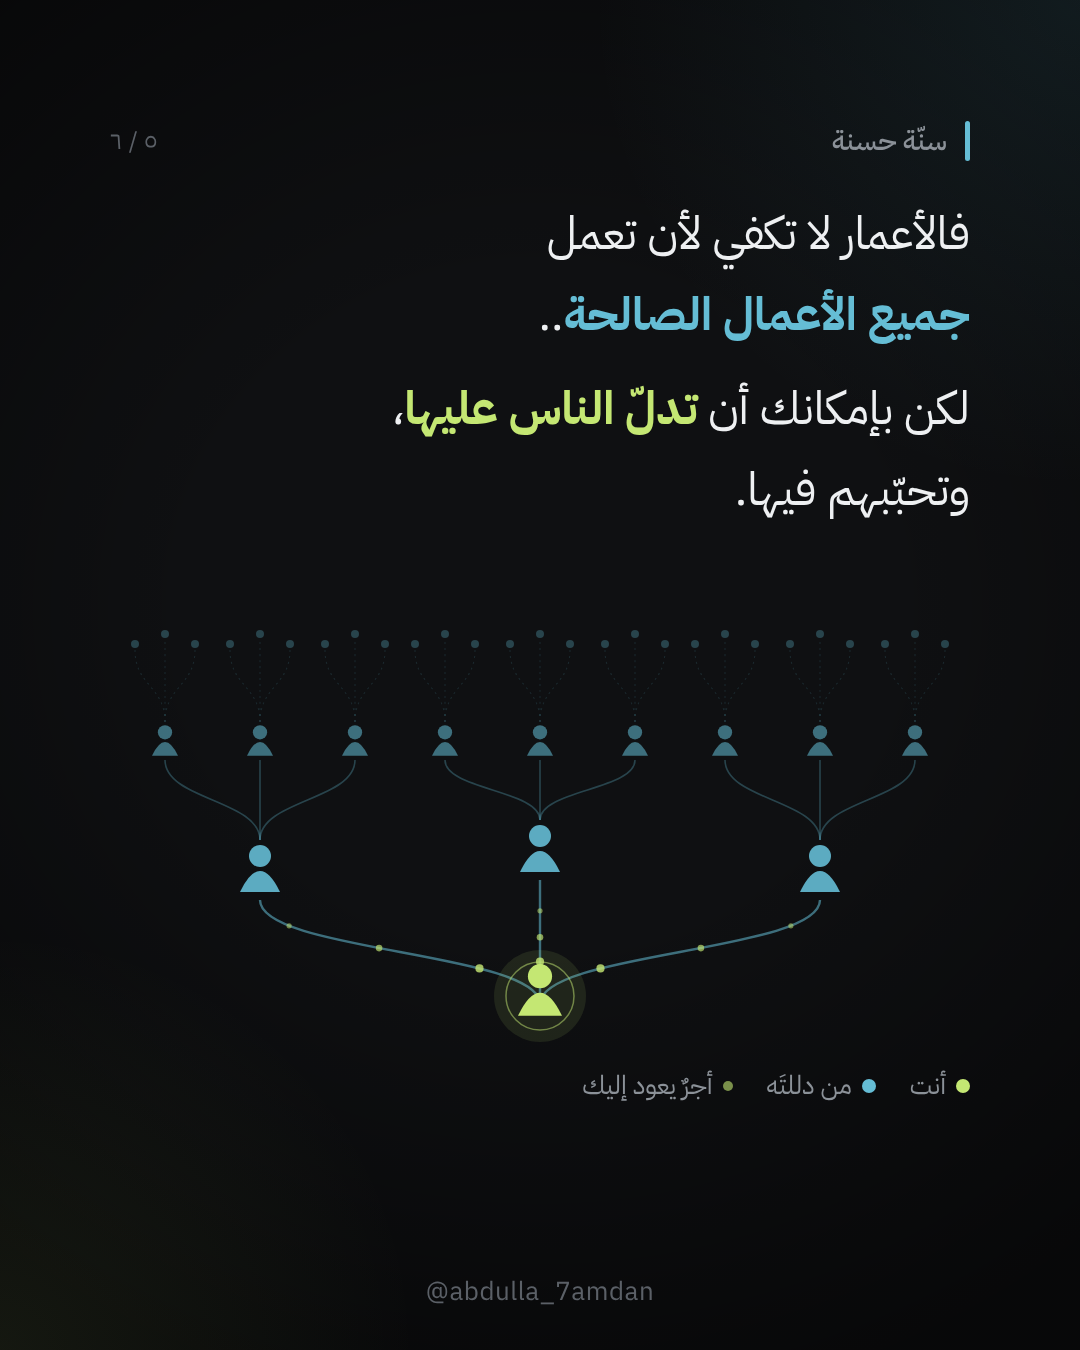
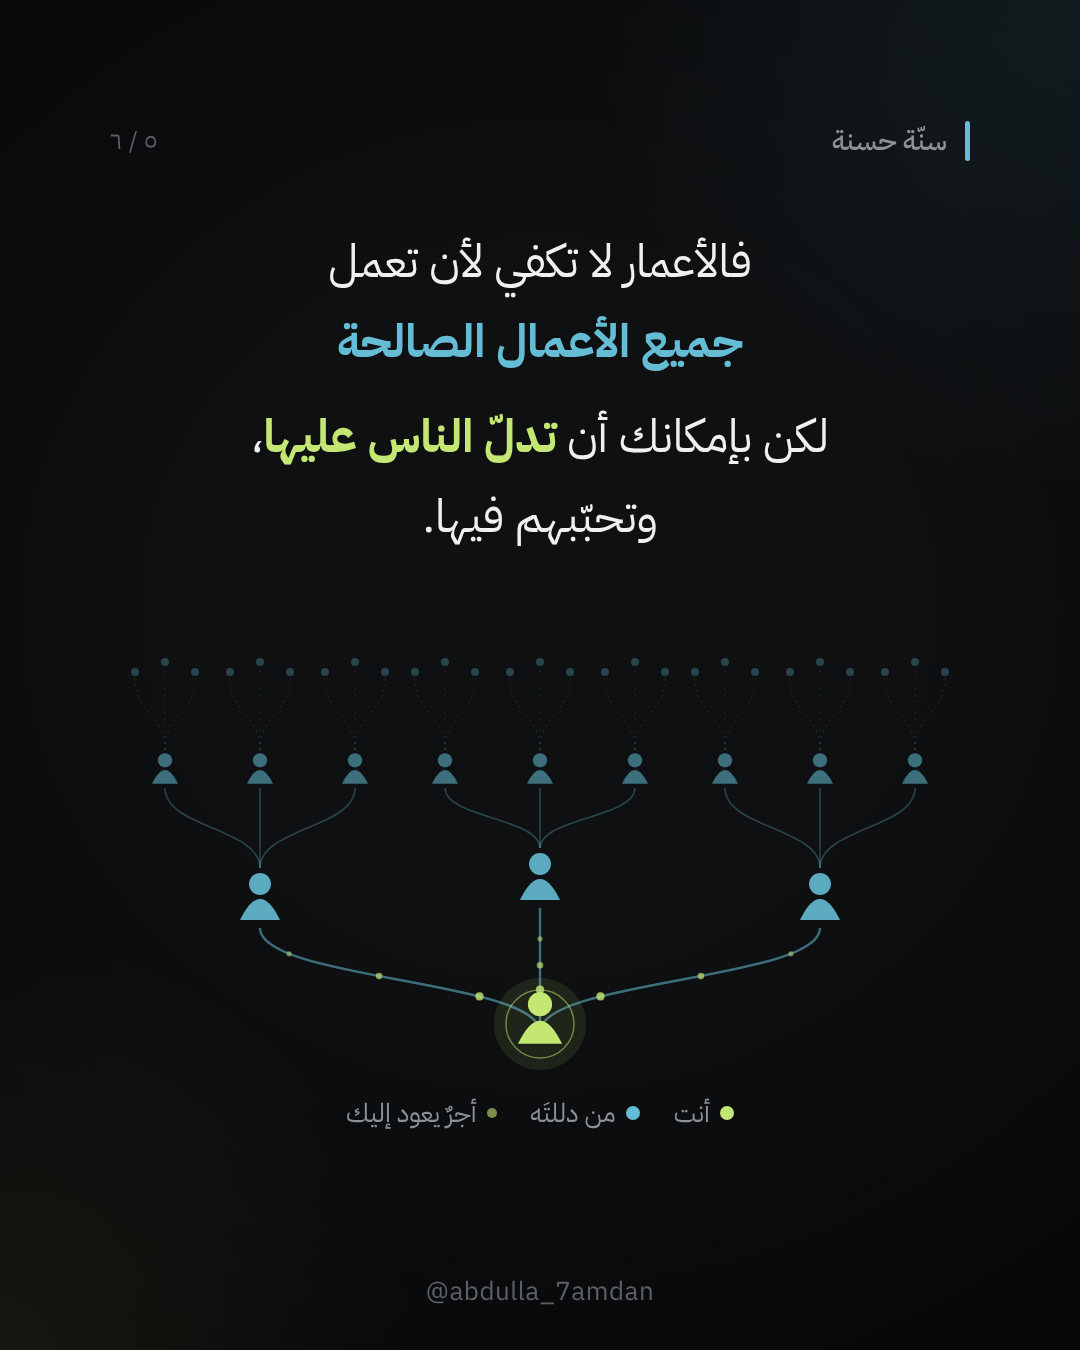
سنّة حسنة: center slide 5 text, drop trailing dots
Claude-Session: https://claude.ai/code/session_01BaYRa7bC6zxZgA65wvC7DU

diff --git a/carousels/sunna-hasana/carousel-dark.html b/carousels/sunna-hasana/carousel-dark.html
@@ -214,11 +214,11 @@ b{font-weight:700;color:var(--blue)}
 <!-- 5 Guide others -->
 <section class="slide">
   <div class="head">سنّة حسنة<span class="count">٥ / ٦</span></div>
-  <div class="body" style="justify-content:flex-start;padding-top:30px">
-    <p class="mid" style="font-size:46px">فالأعمار لا تكفي لأن تعمل<br><b>جميع الأعمال الصالحة</b>..</p>
-    <p class="mid" style="font-size:46px;margin-top:14px">لكن بإمكانك أن <span class="lime">تدلّ الناس عليها</span>،<br>وتحبّبهم فيها.</p>
+  <div class="body" style="justify-content:center;padding-bottom:40px">
+    <p class="mid" style="font-size:46px;text-align:center">فالأعمار لا تكفي لأن تعمل<br><b>جميع الأعمال الصالحة</b></p>
+    <p class="mid" style="font-size:46px;margin-top:14px;text-align:center">لكن بإمكانك أن <span class="lime">تدلّ الناس عليها</span>،<br>وتحبّبهم فيها.</p>
     <svg class="net" viewBox="0 0 860 470" fill="none"><path d="M430 430 C430 378.0 150 378.0 150 326" stroke="#65bdd5" stroke-opacity="0.55" stroke-width="2.4" /><path d="M150 266 C150 226.0 55.0 226.0 55.0 186" stroke="#65bdd5" stroke-opacity="0.3" stroke-width="1.6" /><path d="M55.0 148 C55.0 112.0 25.0 112.0 25.0 76" stroke="#65bdd5" stroke-opacity="0.14" stroke-width="1.1" stroke-dasharray="2 4"/><path d="M55.0 148 C55.0 107.0 55.0 107.0 55.0 66" stroke="#65bdd5" stroke-opacity="0.14" stroke-width="1.1" stroke-dasharray="2 4"/><path d="M55.0 148 C55.0 112.0 85.0 112.0 85.0 76" stroke="#65bdd5" stroke-opacity="0.14" stroke-width="1.1" stroke-dasharray="2 4"/><path d="M150 266 C150 226.0 150.0 226.0 150.0 186" stroke="#65bdd5" stroke-opacity="0.3" stroke-width="1.6" /><path d="M150.0 148 C150.0 112.0 120.0 112.0 120.0 76" stroke="#65bdd5" stroke-opacity="0.14" stroke-width="1.1" stroke-dasharray="2 4"/><path d="M150.0 148 C150.0 107.0 150.0 107.0 150.0 66" stroke="#65bdd5" stroke-opacity="0.14" stroke-width="1.1" stroke-dasharray="2 4"/><path d="M150.0 148 C150.0 112.0 180.0 112.0 180.0 76" stroke="#65bdd5" stroke-opacity="0.14" stroke-width="1.1" stroke-dasharray="2 4"/><path d="M150 266 C150 226.0 245.0 226.0 245.0 186" stroke="#65bdd5" stroke-opacity="0.3" stroke-width="1.6" /><path d="M245.0 148 C245.0 112.0 215.0 112.0 215.0 76" stroke="#65bdd5" stroke-opacity="0.14" stroke-width="1.1" stroke-dasharray="2 4"/><path d="M245.0 148 C245.0 107.0 245.0 107.0 245.0 66" stroke="#65bdd5" stroke-opacity="0.14" stroke-width="1.1" stroke-dasharray="2 4"/><path d="M245.0 148 C245.0 112.0 275.0 112.0 275.0 76" stroke="#65bdd5" stroke-opacity="0.14" stroke-width="1.1" stroke-dasharray="2 4"/><path d="M430 430 C430 368.0 430 368.0 430 306" stroke="#65bdd5" stroke-opacity="0.55" stroke-width="2.4" /><path d="M430 246 C430 216.0 335.0 216.0 335.0 186" stroke="#65bdd5" stroke-opacity="0.3" stroke-width="1.6" /><path d="M335.0 148 C335.0 112.0 305.0 112.0 305.0 76" stroke="#65bdd5" stroke-opacity="0.14" stroke-width="1.1" stroke-dasharray="2 4"/><path d="M335.0 148 C335.0 107.0 335.0 107.0 335.0 66" stroke="#65bdd5" stroke-opacity="0.14" stroke-width="1.1" stroke-dasharray="2 4"/><path d="M335.0 148 C335.0 112.0 365.0 112.0 365.0 76" stroke="#65bdd5" stroke-opacity="0.14" stroke-width="1.1" stroke-dasharray="2 4"/><path d="M430 246 C430 216.0 430.0 216.0 430.0 186" stroke="#65bdd5" stroke-opacity="0.3" stroke-width="1.6" /><path d="M430.0 148 C430.0 112.0 400.0 112.0 400.0 76" stroke="#65bdd5" stroke-opacity="0.14" stroke-width="1.1" stroke-dasharray="2 4"/><path d="M430.0 148 C430.0 107.0 430.0 107.0 430.0 66" stroke="#65bdd5" stroke-opacity="0.14" stroke-width="1.1" stroke-dasharray="2 4"/><path d="M430.0 148 C430.0 112.0 460.0 112.0 460.0 76" stroke="#65bdd5" stroke-opacity="0.14" stroke-width="1.1" stroke-dasharray="2 4"/><path d="M430 246 C430 216.0 525.0 216.0 525.0 186" stroke="#65bdd5" stroke-opacity="0.3" stroke-width="1.6" /><path d="M525.0 148 C525.0 112.0 495.0 112.0 495.0 76" stroke="#65bdd5" stroke-opacity="0.14" stroke-width="1.1" stroke-dasharray="2 4"/><path d="M525.0 148 C525.0 107.0 525.0 107.0 525.0 66" stroke="#65bdd5" stroke-opacity="0.14" stroke-width="1.1" stroke-dasharray="2 4"/><path d="M525.0 148 C525.0 112.0 555.0 112.0 555.0 76" stroke="#65bdd5" stroke-opacity="0.14" stroke-width="1.1" stroke-dasharray="2 4"/><path d="M430 430 C430 378.0 710 378.0 710 326" stroke="#65bdd5" stroke-opacity="0.55" stroke-width="2.4" /><path d="M710 266 C710 226.0 615.0 226.0 615.0 186" stroke="#65bdd5" stroke-opacity="0.3" stroke-width="1.6" /><path d="M615.0 148 C615.0 112.0 585.0 112.0 585.0 76" stroke="#65bdd5" stroke-opacity="0.14" stroke-width="1.1" stroke-dasharray="2 4"/><path d="M615.0 148 C615.0 107.0 615.0 107.0 615.0 66" stroke="#65bdd5" stroke-opacity="0.14" stroke-width="1.1" stroke-dasharray="2 4"/><path d="M615.0 148 C615.0 112.0 645.0 112.0 645.0 76" stroke="#65bdd5" stroke-opacity="0.14" stroke-width="1.1" stroke-dasharray="2 4"/><path d="M710 266 C710 226.0 710.0 226.0 710.0 186" stroke="#65bdd5" stroke-opacity="0.3" stroke-width="1.6" /><path d="M710.0 148 C710.0 112.0 680.0 112.0 680.0 76" stroke="#65bdd5" stroke-opacity="0.14" stroke-width="1.1" stroke-dasharray="2 4"/><path d="M710.0 148 C710.0 107.0 710.0 107.0 710.0 66" stroke="#65bdd5" stroke-opacity="0.14" stroke-width="1.1" stroke-dasharray="2 4"/><path d="M710.0 148 C710.0 112.0 740.0 112.0 740.0 76" stroke="#65bdd5" stroke-opacity="0.14" stroke-width="1.1" stroke-dasharray="2 4"/><path d="M710 266 C710 226.0 805.0 226.0 805.0 186" stroke="#65bdd5" stroke-opacity="0.3" stroke-width="1.6" /><path d="M805.0 148 C805.0 112.0 775.0 112.0 775.0 76" stroke="#65bdd5" stroke-opacity="0.14" stroke-width="1.1" stroke-dasharray="2 4"/><path d="M805.0 148 C805.0 107.0 805.0 107.0 805.0 66" stroke="#65bdd5" stroke-opacity="0.14" stroke-width="1.1" stroke-dasharray="2 4"/><path d="M805.0 148 C805.0 112.0 835.0 112.0 835.0 76" stroke="#65bdd5" stroke-opacity="0.14" stroke-width="1.1" stroke-dasharray="2 4"/><g fill="#65bdd5" fill-opacity="0.9"><circle cx="150" cy="282.0" r="11.0"/><path d="M130 318.0 q20 -42.0 40 0 z"/></g><g fill="#65bdd5" fill-opacity="0.55"><circle cx="55.0" cy="158.3" r="7.15"/><path d="M42.0 181.7 q13 -27.3 26 0 z"/></g><circle cx="25.0" cy="70" r="4" fill="#65bdd5" fill-opacity=".3"/><circle cx="55.0" cy="60" r="4" fill="#65bdd5" fill-opacity=".3"/><circle cx="85.0" cy="70" r="4" fill="#65bdd5" fill-opacity=".3"/><g fill="#65bdd5" fill-opacity="0.55"><circle cx="150.0" cy="158.3" r="7.15"/><path d="M137.0 181.7 q13 -27.3 26 0 z"/></g><circle cx="120.0" cy="70" r="4" fill="#65bdd5" fill-opacity=".3"/><circle cx="150.0" cy="60" r="4" fill="#65bdd5" fill-opacity=".3"/><circle cx="180.0" cy="70" r="4" fill="#65bdd5" fill-opacity=".3"/><g fill="#65bdd5" fill-opacity="0.55"><circle cx="245.0" cy="158.3" r="7.15"/><path d="M232.0 181.7 q13 -27.3 26 0 z"/></g><circle cx="215.0" cy="70" r="4" fill="#65bdd5" fill-opacity=".3"/><circle cx="245.0" cy="60" r="4" fill="#65bdd5" fill-opacity=".3"/><circle cx="275.0" cy="70" r="4" fill="#65bdd5" fill-opacity=".3"/><g fill="#65bdd5" fill-opacity="0.9"><circle cx="430" cy="262.0" r="11.0"/><path d="M410 298.0 q20 -42.0 40 0 z"/></g><g fill="#65bdd5" fill-opacity="0.55"><circle cx="335.0" cy="158.3" r="7.15"/><path d="M322.0 181.7 q13 -27.3 26 0 z"/></g><circle cx="305.0" cy="70" r="4" fill="#65bdd5" fill-opacity=".3"/><circle cx="335.0" cy="60" r="4" fill="#65bdd5" fill-opacity=".3"/><circle cx="365.0" cy="70" r="4" fill="#65bdd5" fill-opacity=".3"/><g fill="#65bdd5" fill-opacity="0.55"><circle cx="430.0" cy="158.3" r="7.15"/><path d="M417.0 181.7 q13 -27.3 26 0 z"/></g><circle cx="400.0" cy="70" r="4" fill="#65bdd5" fill-opacity=".3"/><circle cx="430.0" cy="60" r="4" fill="#65bdd5" fill-opacity=".3"/><circle cx="460.0" cy="70" r="4" fill="#65bdd5" fill-opacity=".3"/><g fill="#65bdd5" fill-opacity="0.55"><circle cx="525.0" cy="158.3" r="7.15"/><path d="M512.0 181.7 q13 -27.3 26 0 z"/></g><circle cx="495.0" cy="70" r="4" fill="#65bdd5" fill-opacity=".3"/><circle cx="525.0" cy="60" r="4" fill="#65bdd5" fill-opacity=".3"/><circle cx="555.0" cy="70" r="4" fill="#65bdd5" fill-opacity=".3"/><g fill="#65bdd5" fill-opacity="0.9"><circle cx="710" cy="282.0" r="11.0"/><path d="M690 318.0 q20 -42.0 40 0 z"/></g><g fill="#65bdd5" fill-opacity="0.55"><circle cx="615.0" cy="158.3" r="7.15"/><path d="M602.0 181.7 q13 -27.3 26 0 z"/></g><circle cx="585.0" cy="70" r="4" fill="#65bdd5" fill-opacity=".3"/><circle cx="615.0" cy="60" r="4" fill="#65bdd5" fill-opacity=".3"/><circle cx="645.0" cy="70" r="4" fill="#65bdd5" fill-opacity=".3"/><g fill="#65bdd5" fill-opacity="0.55"><circle cx="710.0" cy="158.3" r="7.15"/><path d="M697.0 181.7 q13 -27.3 26 0 z"/></g><circle cx="680.0" cy="70" r="4" fill="#65bdd5" fill-opacity=".3"/><circle cx="710.0" cy="60" r="4" fill="#65bdd5" fill-opacity=".3"/><circle cx="740.0" cy="70" r="4" fill="#65bdd5" fill-opacity=".3"/><g fill="#65bdd5" fill-opacity="0.55"><circle cx="805.0" cy="158.3" r="7.15"/><path d="M792.0 181.7 q13 -27.3 26 0 z"/></g><circle cx="775.0" cy="70" r="4" fill="#65bdd5" fill-opacity=".3"/><circle cx="805.0" cy="60" r="4" fill="#65bdd5" fill-opacity=".3"/><circle cx="835.0" cy="70" r="4" fill="#65bdd5" fill-opacity=".3"/><circle cx="369.5" cy="394.4" r="4.1" fill="#c4e773" fill-opacity="0.82"/><circle cx="269.1" cy="374.1" r="3.3" fill="#c4e773" fill-opacity="0.67"/><circle cx="179.1" cy="351.8" r="2.6" fill="#c4e773" fill-opacity="0.52"/><circle cx="430.0" cy="387.6" r="4.1" fill="#c4e773" fill-opacity="0.82"/><circle cx="430.0" cy="363.3" r="3.3" fill="#c4e773" fill-opacity="0.67"/><circle cx="430.0" cy="336.8" r="2.6" fill="#c4e773" fill-opacity="0.52"/><circle cx="490.5" cy="394.4" r="4.1" fill="#c4e773" fill-opacity="0.82"/><circle cx="590.9" cy="374.1" r="3.3" fill="#c4e773" fill-opacity="0.67"/><circle cx="680.9" cy="351.8" r="2.6" fill="#c4e773" fill-opacity="0.52"/><circle cx="430" cy="422" r="46" fill="#c4e773" fill-opacity=".10"/><circle cx="430" cy="422" r="34" stroke="#c4e773" stroke-opacity=".5" stroke-width="1.5"/><g fill="#c4e773" fill-opacity="1"><circle cx="430" cy="402.2" r="12.100000000000001"/><path d="M408 441.8 q22 -46.2 44 0 z"/></g></svg>
-    <div class="cap"><span><i class="dt"></i>أنت</span><span><i class="dt b"></i>من دللتَه</span><span><i class="dt p"></i>أجرٌ يعود إليك</span></div>
+    <div class="cap" style="justify-content:center"><span><i class="dt"></i>أنت</span><span><i class="dt b"></i>من دللتَه</span><span><i class="dt p"></i>أجرٌ يعود إليك</span></div>
   </div>
   <div class="foot"><span dir="ltr">@abdulla_7amdan</span></div>
 </section>
